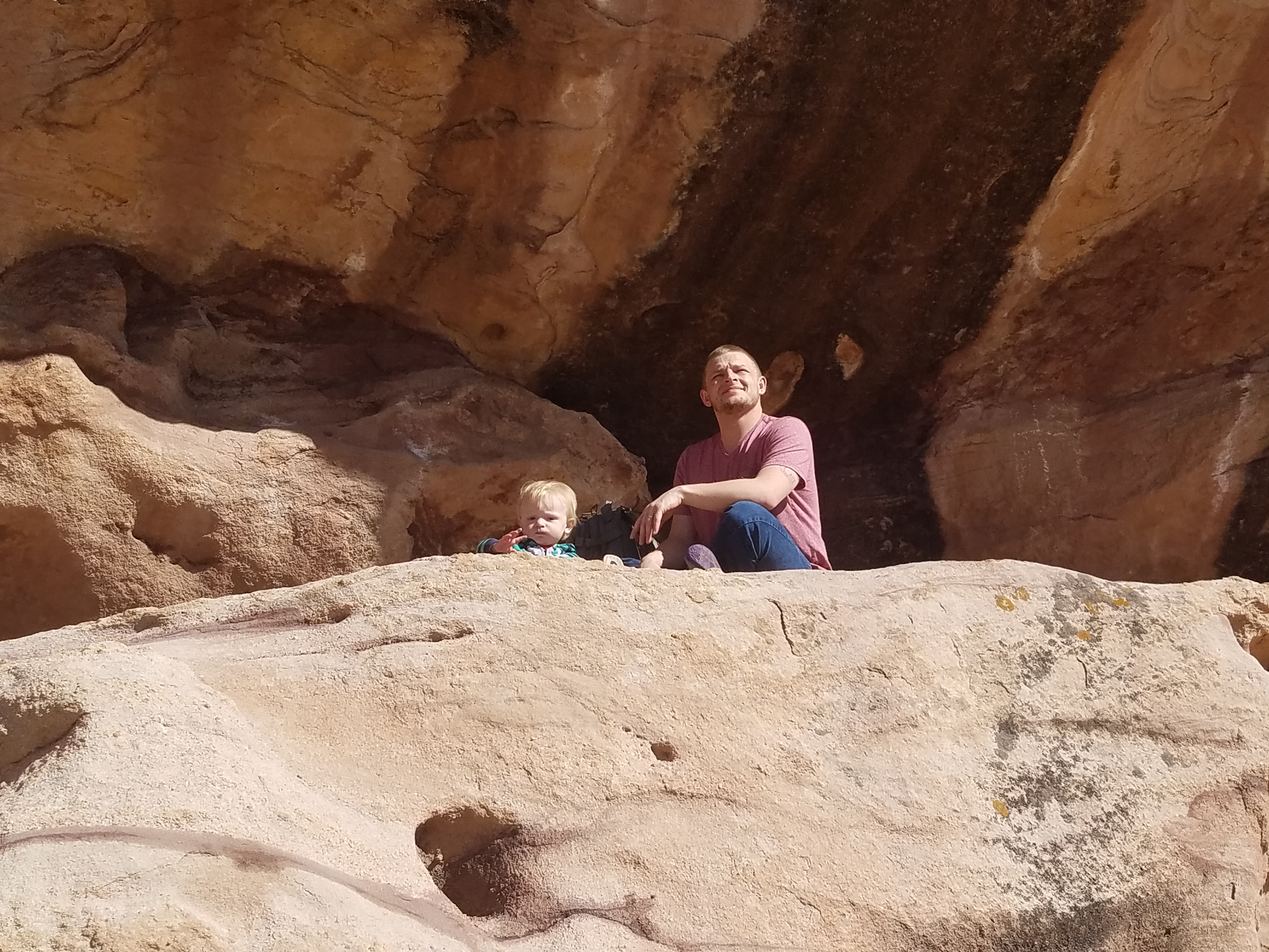
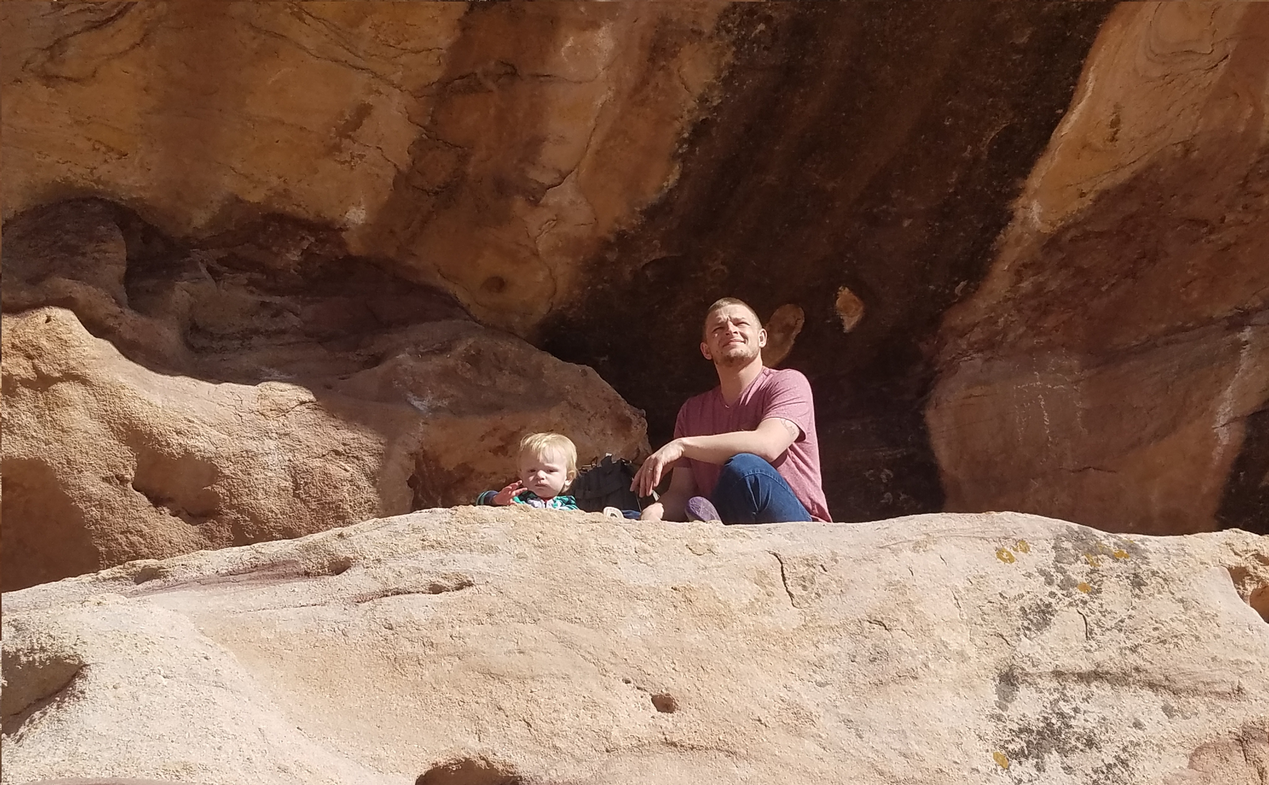
Messing around with css for smaller screen sizes, e.g. cell phone.

diff --git a/jandcb.com/index.htm b/jandcb.com/index.htm
@@ -111,7 +111,7 @@
                 <div class="col-lg-5 ml-auto order-lg-1">
                     <!--REFACTOR: Figure out how to make this img-rounded-->
                     <!--REFACTOR: Update the img-->
-                    <a href="http://dadabase.jandcb.com"><img class="img-fluid" src="img/index_momandson.jpg" alt=""></a>
+                    <a href="http://dadabase.jandcb.com"><img class="img-fluid" src="img/index_fatherandson_2.jpg" alt=""></a>
                 </div>
             </div>
 

diff --git a/jandcb.com/css/landing-page.css b/jandcb.com/css/landing-page.css
@@ -53,11 +53,15 @@ body, h1, h2, h3, h4, h5, h6 {
 }
 
 @media(max-width:767px) {
-  .intro-message {
-    padding-bottom: 15%;
-  }
+  /* .intro-message {
+    padding-top: 25%; 
+  } */
   .intro-message>h1 {
+    margin-top: 20%; 
     font-size: 3em;
+  }
+  .intro-message>h3 {
+    font-size: 1em;
   }
   ul.intro-social-buttons>li {
     display: block;
@@ -68,7 +72,7 @@ body, h1, h2, h3, h4, h5, h6 {
     margin-bottom: 0;
   }
   .intro-divider {
-    width: 100%;
+    width: 50%;
   }
 }
 
